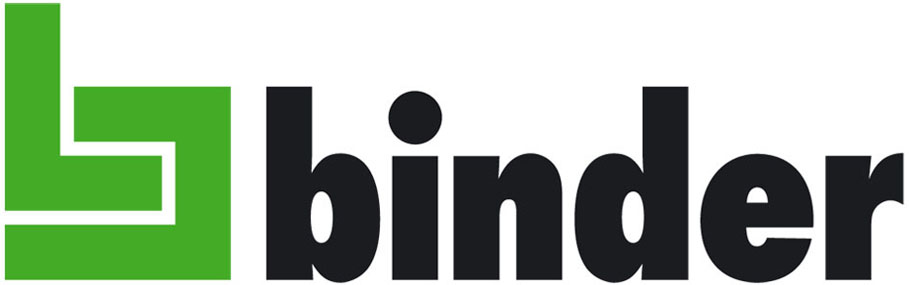
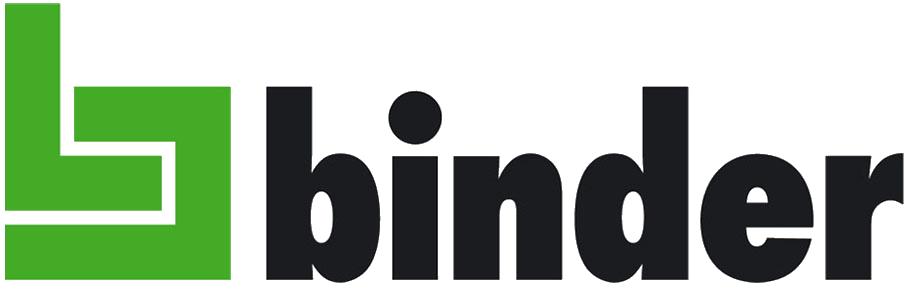
Can you even magic wand?

diff --git a/committees/rov/sponsors/index.php b/committees/rov/sponsors/index.php
@@ -66,7 +66,7 @@ include '../../../header.php';
                     <a href="https://engineering.purdue.edu/Engr" target="_blank"><img src="/committees/rov/images/Engineering.png" alt="Purdue College of Engineering" style="width:100%"></a>
                 </div>
                 <div class="col-md-4 text-center">
-                    <a href="http://www.solidworks.com/" target="_blank"><img src="/committees/rov/images/solidworks.jpg" alt="SolidWorks" style="width:100%"></a>
+                    <a href="http://www.solidworks.com/" target="_blank"><img src="/committees/rov/images/solidworks.png" alt="SolidWorks" style="width:100%"></a>
                 </div>
                 <div class="col-md-4 text-center">
                     <a href="http://www.cadsoftusa.com/" target="_blank"><img src="/committees/rov/images/eagle.png" alt="Cadsoft" style="width:100%"></a>
@@ -80,7 +80,7 @@ include '../../../header.php';
 
                 </div>
                 <div class="col-md-4 text-center">
-                    <a href="http://www.rssgrinders.com/" target="_blank"><img src="/committees/rov/images/rss.JPG" alt="RSS Grinders and Automation" style="width:100%"></a>
+                    <a href="http://www.rssgrinders.com/" target="_blank"><img src="/committees/rov/images/rss.png" alt="RSS Grinders and Automation" style="width:100%"></a>
                 </div>
                 <div class="col-md-4 text-center">
 
@@ -94,10 +94,10 @@ include '../../../header.php';
                     <a href="http://www.bechtel.com/" target="_blank"><img src="/committees/rov/images/Bechtel.png" alt="Bechtel" style="width:100%">
                     </div>
                     <div class="col-md-4 text-center">
-                        <a href="http://bv.com/" target="_blank"><img src="/committees/rov/images/blackandveatch.jpg" alt="Black and Veatch" style="width:100%"></a>
+                        <a href="http://bv.com/" target="_blank"><img src="/committees/rov/images/blackandveatch.png" alt="Black and Veatch" style="width:100%"></a>
                     </div>
                     <div class="col-md-4 text-center">
-                        <a href="http://www.eastman.com/Pages/Home.aspx" target="_blank"><img src="/committees/rov/images/eastman.jpg" alt="Eastman Chemical" style="width:100%"></a>
+                        <a href="http://www.eastman.com/Pages/Home.aspx" target="_blank"><img src="/committees/rov/images/eastman.png" alt="Eastman Chemical" style="width:100%"></a>
                     </div>
                 </div>
 
@@ -106,7 +106,7 @@ include '../../../header.php';
                         <a href="http://www.digikey.com/" target="_blank"><img src="/committees/rov/images/DigiKey.png" alt="DigiKey" style="width:100%"></a>
                     </div>
                     <div class="col-md-4 text-center">
-                        <a href="http://www.cis-ieee.org/" target="_blank"><img src="/committees/rov/images/ieee.jpg" alt="CIS IEEE" style="width:100%"></a>
+                        <a href="http://www.cis-ieee.org/" target="_blank"><img src="/committees/rov/images/ieee.png" alt="CIS IEEE" style="width:100%"></a>
                     </div>
                     <div class="col-md-4 text-center">
                         <a href="http://www.northropgrumman.com/Pages/default.aspx" target="_blank"><img src="/committees/rov/images/northrop.png" alt="Northrop Grumman" style="width:100%"></a>
@@ -115,7 +115,7 @@ include '../../../header.php';
 
                 <div class="row" style="margin-top: 20px">
                     <div class="col-md-4 text-center">
-                        <a href="http://wabashpower.com" target="_blank"><img src="/committees/rov/images/WabashPower.jpg" alt="Wabash Power Equipment" style="width:100%"></a>
+                        <a href="http://wabashpower.com" target="_blank"><img src="/committees/rov/images/WabashPower.png" alt="Wabash Power Equipment" style="width:100%"></a>
                     </div>
                     <div class="col-md-4 text-center">
                         <a href="http://www.binder-world.com/us/Company" target="_blank"><img src="/committees/rov/images/Binder.png" alt="Binder" style="width:100%"></a>
